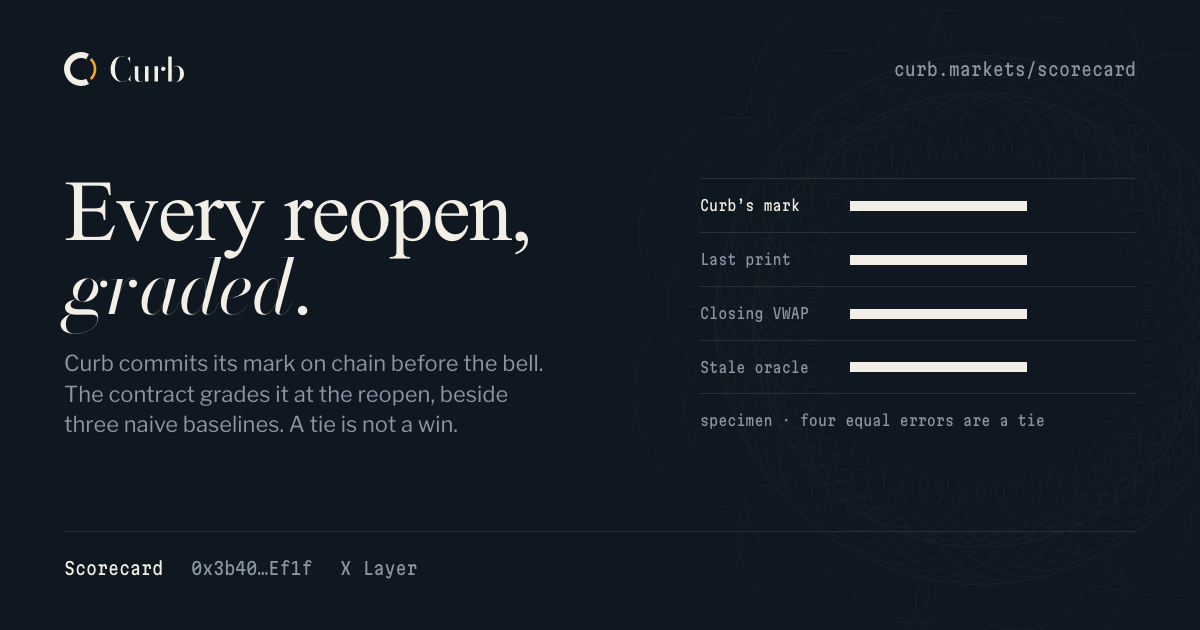
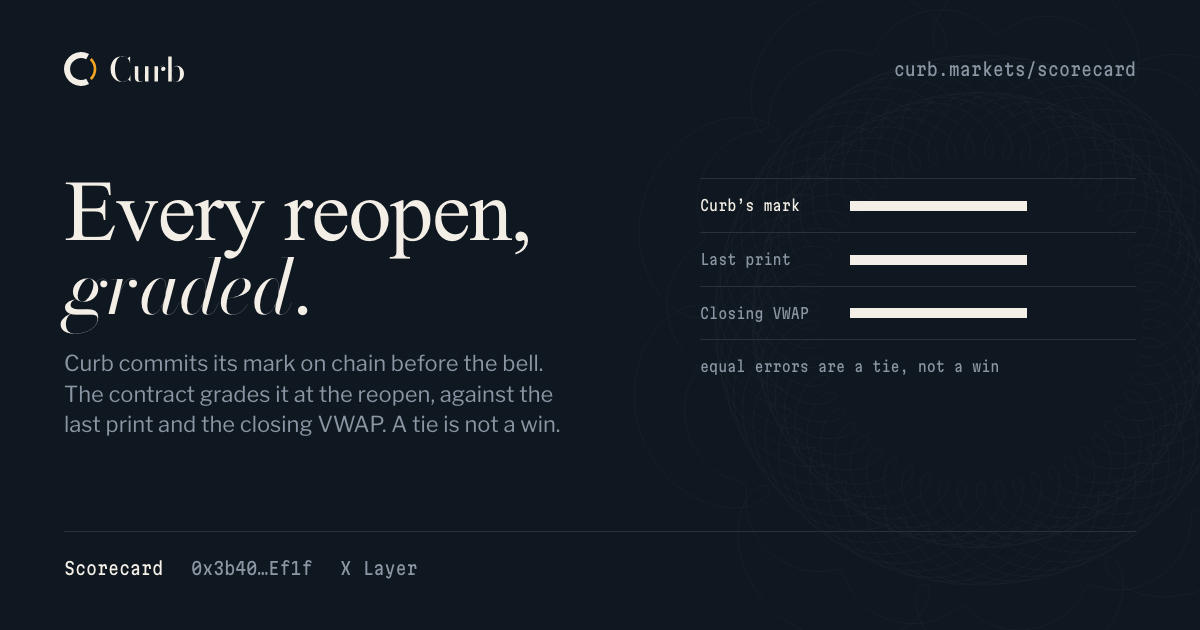
site: /notes mobile overflow fix, redeemed-note state, visitor notes on /notes and /depth, footer links to source, video and MCP, CSP hash for speculation rules, OG images and tags, leaderboard snapshot at 21 rows

diff --git a/web/depth/index.html b/web/depth/index.html
@@ -5,10 +5,17 @@
     <meta name="viewport" content="width=device-width, initial-scale=1">
     <title>Depth · Curb</title>
     <meta name="description" content="Bond depth and watch the loan-to-value move: CurbCredit lends only what a bonded bid would pay for the collateral, and a faded bid pays its bond to the trader in the same transaction.">
+    <meta property="og:type" content="website">
+    <meta property="og:site_name" content="Curb">
+    <meta property="og:url" content="https://curb.markets/depth">
     <meta property="og:title" content="Depth · Curb">
     <meta property="og:description" content="Bond depth and watch the loan-to-value move.">
     <meta property="og:image" content="https://curb.markets/og/depth.png">
+    <meta property="og:image:width" content="1200">
+    <meta property="og:image:height" content="630">
+    <meta property="og:image:alt" content="DepthCert and CurbCredit: loan-to-value follows bonded depth and the regime cap">
     <meta name="twitter:card" content="summary_large_image">
+    <meta name="twitter:image" content="https://curb.markets/og/depth.png">
   </head>
   <body data-page="depth">
     <!-- The shell (masthead, footer ledger, grain) is injected by the curb-shell plugin in vite.config.ts. -->
@@ -19,8 +26,8 @@
           <div class="col-ledger dp-hero__text">
             <p class="t-label">Depth · DepthCert, CurbCredit</p>
             <h1 class="t-h1 vt-title-depth" id="dp-title" data-reveal>Lend what a bonded bid will pay, even while Hong Kong is <em>shut</em>.</h1>
-            <p class="t-lede measure dp-lede">For 140 hours a week a Hong Kong share token trades with its creation and redemption switched off. The only honest collateral value then is what someone has committed, with money at risk, to pay for it. CurbCredit’s loan-to-value is published, and it never lends more than the bonded bids would pay.</p>
-            <p class="dp-status" data-dp-status><span class="tag">Reading X Layer…</span></p>
+            <p class="t-lede measure dp-lede">For more than 140 hours a week a Hong Kong share token trades with its creation and redemption switched off. The only honest collateral value then is what someone has committed, with money at risk, to pay for it. CurbCredit’s loan-to-value is published, and it never lends more than the bonded bids would pay.</p>
+            <p class="dp-status" data-dp-status><span class="tag">Reading X Layer from your browser, about 20 s…</span></p>
             <p class="t-small muted dp-disclose">Demo counterparties are team wallets: curb-desk posts the bonds and funds the reserve, the Agentic Wallet borrows and takes.</p>
           </div>
           <div class="col-instrument">
@@ -141,6 +148,7 @@
           <div class="col-ledger">
             <h2 class="t-h2 nt-h2" id="dp-act-h">Post, take, deposit, borrow, repay</h2>
             <p class="t-body measure">Every step is one transaction you sign in your own wallet, simulated first and sent with Curb’s Builder Code attached. The plot above only does maths; these send.</p>
+            <p class="t-small muted measure">Visiting? Everything on this page reads live from X Layer without a wallet, and a cert that names no credit line is open to anyone. Depositing, borrowing and certs that name CurbCredit need an address on the eligibility registries, which list team wallets only for this demo. The full team-wallet run, every transaction linked, is in <a href="https://github.com/OoJae/curb/blob/main/docs/DEPLOYMENTS.md#live-demo-on-mainnet--team-wallets-only-2425-sept-2026" rel="noopener">DEPLOYMENTS</a> and the <a href="https://youtu.be/JInFSx2d3Qk" rel="noopener">demo video</a>.</p>
           </div>
         </div>
         <div class="dp-act__wallet" id="dp-wallet" data-dp-wallet></div>

diff --git a/web/notes/index.html b/web/notes/index.html
@@ -5,10 +5,17 @@
     <meta name="viewport" content="width=device-width, initial-scale=1">
     <title>Notes · Curb</title>
     <meta name="description" content="Sell the reopen, not the asset: reopen notes on X Layer, sold on a descending clock while Hong Kong is shut and settled share for share after the verified reopen.">
+    <meta property="og:type" content="website">
+    <meta property="og:site_name" content="Curb">
+    <meta property="og:url" content="https://curb.markets/notes">
     <meta property="og:title" content="Notes · Curb">
     <meta property="og:description" content="Sell the reopen, not the asset.">
     <meta property="og:image" content="https://curb.markets/og/notes.png">
+    <meta property="og:image:width" content="1200">
+    <meta property="og:image:height" content="630">
+    <meta property="og:image:alt" content="A Curb Reopen Note: wrapper shares escrowed while Hong Kong is shut, delivered after the verified reopen">
     <meta name="twitter:card" content="summary_large_image">
+    <meta name="twitter:image" content="https://curb.markets/og/notes.png">
   </head>
   <body data-page="notes">
     <!-- The shell (masthead, footer ledger, grain) is injected by the curb-shell plugin in vite.config.ts. -->
@@ -20,7 +27,7 @@
             <p class="t-label nt-kicker">Reopen notes · ReopenNote, ClosedAuction, ReopenPointer</p>
             <h1 class="t-h1 vt-title-notes" id="nt-title" data-reveal>Sell the <em>reopen,</em> not the asset.</h1>
             <p class="t-lede measure nt-lede">While Hong Kong is shut, a holder who needs out can only hit a thin pool. A reopen note lets them sell a claim instead: wrapper shares locked in escrow tonight, delivered share for share once the market has verifiably reopened. The buyer prices the reopen; the seller keeps the stock’s upside out of a fire sale.</p>
-            <p class="nt-status" data-nt-status><span class="tag">Reading X Layer…</span></p>
+            <p class="nt-status" data-nt-status><span class="tag">Reading X Layer from your browser, about 20 s…</span></p>
             <p class="t-small muted nt-disclose">Demo counterparties are team wallets: curb-desk sells, the Agentic Wallet buys. No third party has traded a note.</p>
           </div>
           <div class="col-instrument nt-hero__cert" data-nt-cert aria-live="off">
@@ -89,6 +96,7 @@
           <div class="col-ledger">
             <h2 class="t-h2 nt-h2" id="nt-flow-h">Mint, list, bid, redeem</h2>
             <p class="t-body measure nt-flow__lede">Every step is one transaction you sign in your own wallet. Each is simulated first, sent with Curb’s Builder Code attached, and linked to OKLink when it lands. A revert shows its reason.</p>
+            <p class="t-small muted measure">Visiting? Everything on this page reads live from X Layer without a wallet. Minting and listing need wTCENTx while Hong Kong is shut; bidding needs an address on the eligibility registry, which lists team wallets only for this demo. The full team-wallet cycle, every transaction linked, is in <a href="https://github.com/OoJae/curb/blob/main/docs/DEPLOYMENTS.md#live-demo-on-mainnet--team-wallets-only-2425-sept-2026" rel="noopener">DEPLOYMENTS</a> and the <a href="https://youtu.be/JInFSx2d3Qk" rel="noopener">demo video</a>.</p>
           </div>
         </div>
         <div class="nt-flow__wallet" id="nt-wallet" data-nt-wallet></div>

diff --git a/web/src/shell/markup.ts b/web/src/shell/markup.ts
@@ -34,6 +34,10 @@ export const EXTERNAL = {
   oklink: 'https://www.oklink.com/xlayer',
   builderCode: 'dd7u50nckt5e729f',
   agentId: '13869',
+  repo: 'https://github.com/OoJae/curb',
+  video: 'https://youtu.be/JInFSx2d3Qk',
+  marketplace: 'https://www.okx.ai/agents/13869',
+  mcp: 'https://mcp.curb.markets/mcp',
 } as const;
 
 export function isPageId(v: string | undefined | null): v is PageId {
@@ -108,7 +112,8 @@ export function footerHTML(page: PageId): string {
     <dl class="ledger footer-ledger__rows">
       <div class="ledger__row"><dt>Now</dt><dd class="t-ledger" data-footer-now>wTCENTx · reading MarketClock</dd></div>
       <div class="ledger__row"><dt>Instruments</dt><dd>${instruments}</dd></div>
-      <div class="ledger__row"><dt>For agents</dt><dd><a href="${EXTERNAL.api}" rel="noopener">api.curb.markets${arrowHTML('ext')}</a><span class="ledger__dot" aria-hidden="true"> · </span>OKX AI marketplace, agent #${EXTERNAL.agentId}</dd></div>
+      <div class="ledger__row"><dt>For agents</dt><dd><a href="${EXTERNAL.api}" rel="noopener">api.curb.markets${arrowHTML('ext')}</a><span class="ledger__dot" aria-hidden="true"> · </span><a href="${EXTERNAL.marketplace}" rel="noopener">OKX AI marketplace, agent #${EXTERNAL.agentId}${arrowHTML('ext')}</a><span class="ledger__dot" aria-hidden="true"> · </span>MCP <code>${EXTERNAL.mcp.replace('https://', '')}</code></dd></div>
+      <div class="ledger__row"><dt>Source</dt><dd><a href="${EXTERNAL.repo}" rel="noopener">github.com/OoJae/curb, MIT${arrowHTML('ext')}</a><span class="ledger__dot" aria-hidden="true"> · </span><a href="${EXTERNAL.video}" rel="noopener">Demo video, 2 min 24 s${arrowHTML('ext')}</a></dd></div>
       <div class="ledger__row"><dt>Chain</dt><dd>X Layer, chain 196<span class="ledger__dot" aria-hidden="true"> · </span>Builder Code <code>${EXTERNAL.builderCode}</code></dd></div>
       <div class="ledger__row"><dt>Identity</dt><dd><a href="/brand"${page === 'brand' ? ' aria-current="page"' : ''}>Colours, type and the mark${arrowHTML('int')}</a></dd></div>
     </dl>

diff --git a/web/src/pages/notes/page.ts b/web/src/pages/notes/page.ts
@@ -129,6 +129,8 @@ function noteCertificate(n: NoteView | null, loaded = true): SafeHTML {
     ? loaded
       ? html`No note has been minted yet. The first demo note is minted while Hong Kong is shut, after the contracts are deployed.`
       : html`Settles at the verified reopen, expected <strong>${DATE_DASH}</strong> by the published schedule. The pointer’s witnessed epoch decides, not the timetable.`
+    : n.reopened && BigInt(n.outstandingRaw) === 0n && !n.specimen
+      ? html`Reopen witnessed at epoch ${n.epochNow}. <strong>Redeemed in full:</strong> all ${fmtShares(n.shares)} ${n.symbol} delivered to the holder, share for share.`
     : n.reopened
       ? html`Reopen witnessed: the pointer is at epoch ${n.epochNow}. <strong>Redeemable now</strong> for exactly ${fmtShares(n.shares)} ${n.symbol}, share for share.`
       : html`Settles at the verified reopen, expected <strong>${n.expectedReopenMs ? hktDate(n.expectedReopenMs) : 'at the next reopen'}</strong> by the published schedule. The pointer’s witnessed epoch decides, not the timetable.`;
@@ -370,7 +372,7 @@ function drawLots(lots: LotView[]): void {
       body,
       html`${lots.map((l) => {
         const live = l.status === 'LIVE' && now <= l.endAtMs;
-        const nowPrice = l.status === 'SOLD' && l.clearedPrice !== null ? `${l.clearedPrice.toFixed(4)} paid` : live ? `${usdgFixed(lotPriceAt(lotBig(l), Math.floor(now / 1000)), 4)}` : '—';
+        const nowPrice = l.status === 'SOLD' && l.clearedPrice !== null ? `${usdgFixed(BigInt(Math.round(l.clearedPrice * 1e6)), 4)} paid` : live ? `${usdgFixed(lotPriceAt(lotBig(l), Math.floor(now / 1000)), 4)}` : '—';
         const status = l.status === 'SOLD' ? html`sold to ${whoHTML(l.buyer!, TEAM)}` : live ? 'live' : l.status === 'WITHDRAWN' ? 'withdrawn' : 'ended unsold';
         return html`<tr>
           <th scope="row" class="t-data">${l.lotId}</th>

diff --git a/web/og/templates/scorecard.html b/web/og/templates/scorecard.html
@@ -27,14 +27,13 @@
     <div class="row"><span class="k"><b>Curb’s mark</b></span><span class="bar"></span></div>
     <div class="row"><span class="k">Last print</span><span class="bar"></span></div>
     <div class="row"><span class="k">Closing VWAP</span><span class="bar"></span></div>
-    <div class="row"><span class="k">Stale oracle</span><span class="bar"></span></div>
-    <p class="cap">specimen · four equal errors are a tie</p>
+    <p class="cap">equal errors are a tie, not a win</p>
   </div>
   <div class="og-frame">
     <header class="og-mast"><img src="/brand/lockup-horizontal.svg" alt="Curb"><span class="og-addr">curb.markets/scorecard</span></header>
     <div class="og-copy">
       <h1 class="og-h">Every reopen, <em>graded</em>.</h1>
-      <p class="og-sub">Curb commits its mark on chain before the bell. The contract grades it at the reopen, beside three naive baselines. A&nbsp;tie is not a win.</p>
+      <p class="og-sub">Curb commits its mark on chain before the bell. The contract grades it at the reopen, against the last print and the closing VWAP. A&nbsp;tie is not a win.</p>
     </div>
     <hr class="og-rule">
     <footer class="og-foot"><b>Scorecard</b><span>0x3b40…Ef1f</span><span>X Layer</span></footer>

diff --git a/web/src/data/rpc-lite.ts b/web/src/data/rpc-lite.ts
@@ -51,7 +51,7 @@ export const CLOSURE_COUNT_SELECTOR = "0xece527e2";
 
 async function post(url: string, body: unknown, signal?: AbortSignal): Promise<any> {
   const ctl = new AbortController();
-  const timer = setTimeout(() => ctl.abort(), 6000);
+  const timer = setTimeout(() => ctl.abort(), 12000);
   signal?.addEventListener("abort", () => ctl.abort(), { once: true });
   try {
     const res = await fetch(url, { method: "POST", headers: { "content-type": "application/json" }, body: JSON.stringify(body), signal: ctl.signal });

diff --git a/web/og/templates/notes.html b/web/og/templates/notes.html
@@ -41,7 +41,7 @@
         <div>redeemable at the reopen</div>
         <div>ERC-1155 · CURB-RN</div>
       </div>
-      <div class="foot"><span class="m">Specimen</span></div>
+      <div class="foot"><span class="m">Live on X Layer</span></div>
     </div>
   </div>
   <div class="og-frame">

diff --git a/web/src/pages/notes/instrument.css b/web/src/pages/notes/instrument.css
@@ -296,6 +296,7 @@ select.nt-input {
 
 /* Horizontal scroll for wide tables, inside their own box (never the page). */
 .nt-scroll {
+  position: relative;
   overflow-x: auto;
   overscroll-behavior-x: contain;
 }
